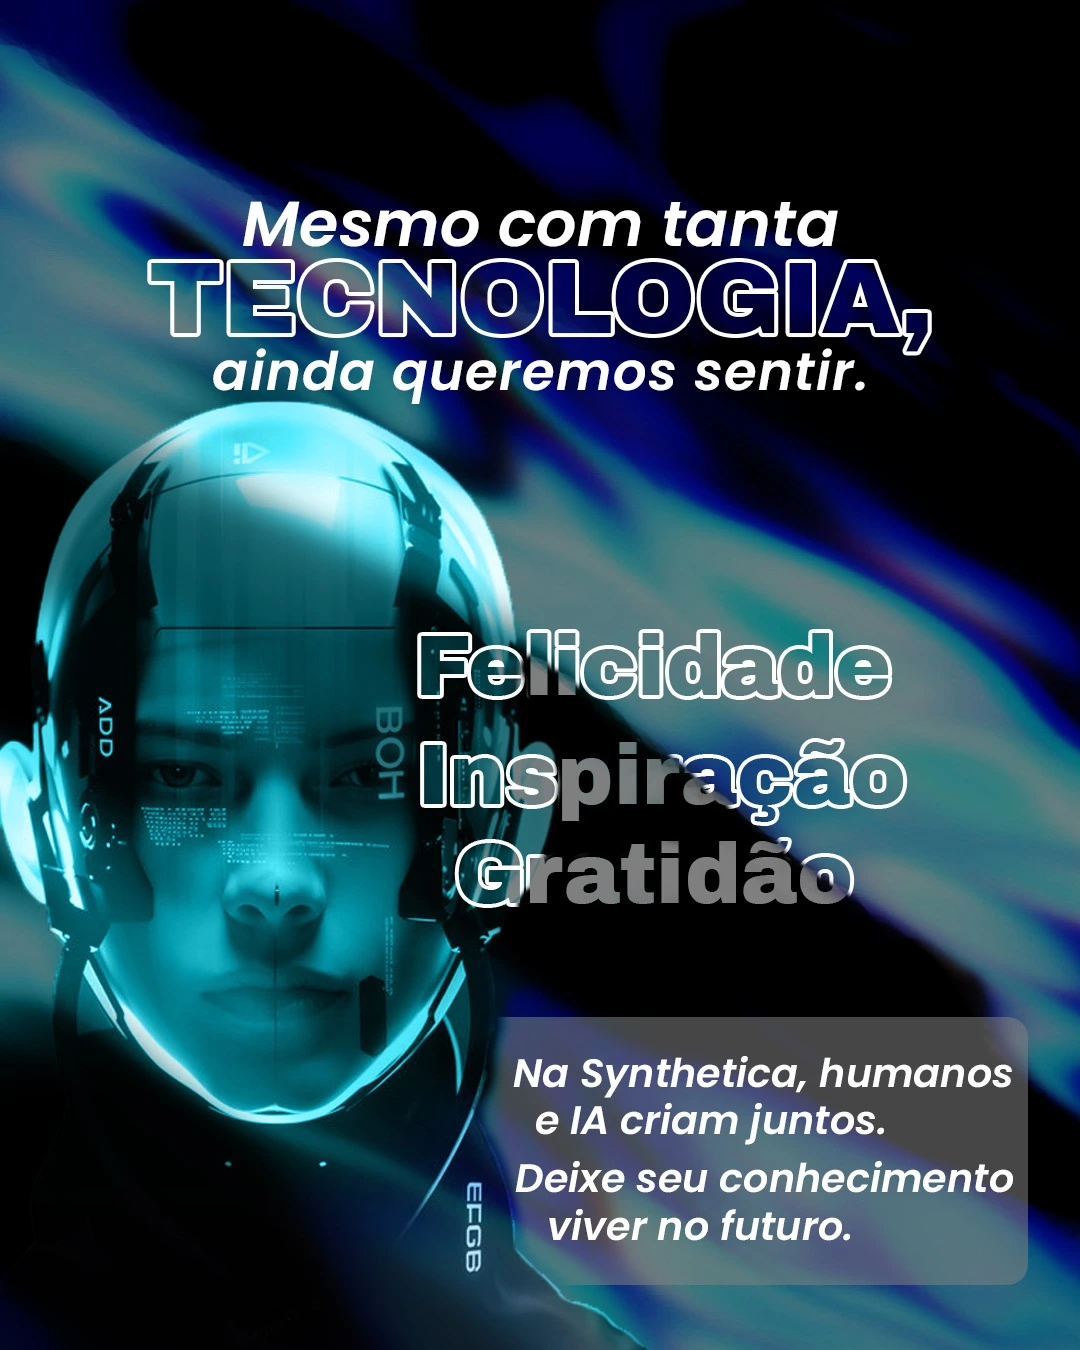
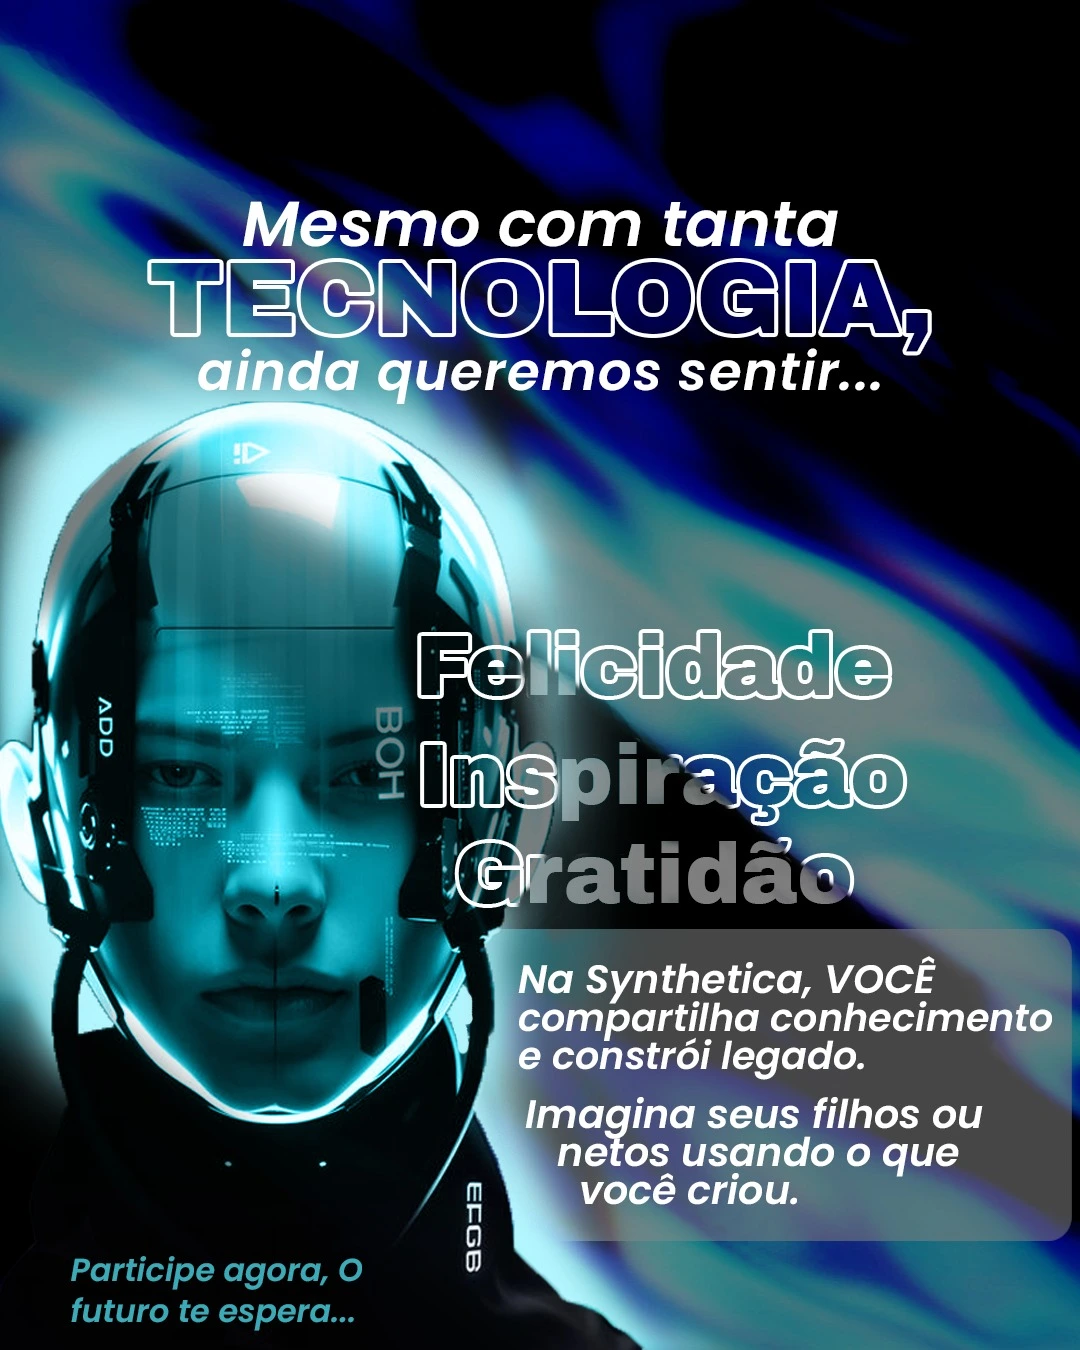
Refresh Posts When Created

diff --git a/client/src/components/Dropzone.jsx b/client/src/components/Dropzone.jsx
@@ -1,8 +1,15 @@
 import { useState } from "react";
 
-const Dropzone = ({ onFileUpload, showPreview = true }) => {
+const Dropzone = ({
+  onFileUpload,
+  showPreview = true,
+  preview: controlledPreview,
+}) => {
   const [isDragging, setIsDragging] = useState(false);
-  const [preview, setPreview] = useState(null);
+  const [localPreview, setLocalPreview] = useState(null);
+
+  const displayPreview =
+    controlledPreview !== undefined ? controlledPreview : localPreview;
 
   const handleDragEnter = (e) => {
     e.preventDefault();
@@ -38,8 +45,9 @@ const Dropzone = ({ onFileUpload, showPreview = true }) => {
   const handleFile = (file) => {
     const reader = new FileReader();
     reader.onload = () => {
-      setPreview(reader.result);
-      onFileUpload(file, reader.result);
+      const result = reader.result;
+      setLocalPreview(result);
+      onFileUpload(file, result);
     };
     reader.readAsDataURL(file);
   };
@@ -65,10 +73,10 @@ const Dropzone = ({ onFileUpload, showPreview = true }) => {
         required
       />
 
-      {preview && showPreview ? (
+      {displayPreview && showPreview ? (
         <div className="mb-4">
           <img
-            src={preview}
+            src={displayPreview}
             alt="Preview"
             className="mx-auto max-h-48 rounded-md"
           />
@@ -93,7 +101,7 @@ const Dropzone = ({ onFileUpload, showPreview = true }) => {
         onClick={() => document.getElementById("file-upload").click()}
         className="btn"
       >
-        {preview ? "Trocar imagem" : "Selecionar arquivo"}
+        {displayPreview ? "Trocar imagem" : "Selecionar arquivo"}
       </button>
     </div>
   );

diff --git a/client/src/layout/CreatePost.jsx b/client/src/layout/CreatePost.jsx
@@ -11,6 +11,9 @@ import Modal from "../components/Modal";
 import Dropzone from "../components/Dropzone";
 import TextBlurFade from "../components/TextBlurFade";
 
+// Store
+import { usePostsStore } from "../store/postsStore";
+
 // Image
 import gradientImg from "../assets/images/gradient.svg";
 
@@ -21,8 +24,12 @@ const CreatePost = () => {
   const [isSuccess, setIsSuccess] = useState(false);
   const [selectedImage, setSelectedImage] = useState(null);
 
-  const handleUpload = (file) => {
+  const triggerRefetch = usePostsStore((state) => state.triggerRefetch);
+  const [imagePreview, setImagePreview] = useState(null);
+
+  const handleUpload = (file, preview) => {
     setSelectedImage(file);
+    setImagePreview(preview);
   };
 
   const handleFormCreatePost = async (e) => {
@@ -38,6 +45,8 @@ const CreatePost = () => {
     setIsModalOpen(true);
     e.target.reset();
     setSelectedImage(null);
+    setImagePreview(null);
+    triggerRefetch();
   };
 
   return (
@@ -212,7 +221,7 @@ const CreatePost = () => {
               <div className="flex w-full flex-col">
                 <label className="subtitle mb-1">Imagem</label>
 
-                <Dropzone onFileUpload={handleUpload} />
+                <Dropzone onFileUpload={handleUpload} preview={imagePreview} />
               </div>
             </div>
           </div>

diff --git a/client/src/layout/Posts.jsx b/client/src/layout/Posts.jsx
@@ -8,11 +8,16 @@ import BlurFade from "../components/BlurFade";
 import TextBlurFade from "../components/TextBlurFade";
 import EditPostModal from "../components/EditPostModal";
 
+// Store
+import { usePostsStore } from "../store/postsStore";
+
 // Icon
 import editIcon from "../assets/icons/edit.svg";
 import trashIcon from "../assets/icons/trash.svg";
 
 const Posts = () => {
+  const shouldRefetchPosts = usePostsStore((state) => state.shouldRefetchPosts);
+
   // Posts
   const [posts, setPosts] = useState([]);
 
@@ -28,7 +33,7 @@ const Posts = () => {
 
   useEffect(() => {
     fetchPosts();
-  }, []);
+  }, [shouldRefetchPosts]);
 
   function handleEdit(post) {
     setContent(

diff --git a/client/src/store/postsStore.js b/client/src/store/postsStore.js
@@ -1,0 +1,6 @@
+import { create } from 'zustand';
+
+export const usePostsStore = create((set) => ({
+  shouldRefetchPosts: false,
+  triggerRefetch: () => set((state) => ({ shouldRefetchPosts: !state.shouldRefetchPosts })),
+}));

diff --git a/server/main.py b/server/main.py
@@ -47,34 +47,7 @@ posts = [
         "content": "Com apenas 7 passos, você transforma o seu conhecimento em um legado para o futuro. O futuro está nas suas mãos. Só você pode trazer a sua experiência para as próximas gerações.",
         "category": "Avanços Tecnológicos",
         "image_url": '/uploads/post3.webp'
-    },
-    {
-        "id": 4,
-        "title": "Revolução Criativa ou Ameaça à Autenticidade?",
-        "description": "A IA está transformando a maneira como criamos e consumimos arte e cultura",
-        "author": "Kevyn",
-        "content": 'A relação entre arte e tecnologia sempre foi intensa—desde a invenção da fotografia, que revolucionou a pintura, até o surgimento do digital, que redefiniu a produção cultural. Hoje, a Inteligência Artificial (IA) emerge como uma das forças mais disruptivas no cenário artístico, desafiando noções tradicionais de autoria, originalidade e criatividade. Se por um lado a IA abre portas para novas formas de expressão, por outro, levanta debates éticos e preocupações sobre o papel do artista humano. Este artigo explora como a inteligência artificial está moldando a arte e a cultura, suas implicações e o que o futuro pode reservar para essa relação complexa. A IA está transformando a arte e a cultura de diversas formas. Na geração de imagens e arte visual, ferramentas como DALL-E, MidJourney e Stable Diffusion permitem que usuários criem imagens realistas ou surrealistas a partir de simples descrições textuais. Artistas digitais já utilizam essas plataformas para esboçar ideias rapidamente, explorar estilos artísticos e produzir ilustrações comerciais. Em 2023, uma obra gerada por IA venceu um concurso de arte tradicional no Colorado, gerando polêmica sobre o que realmente define "arte humana". Na música e composição, sistemas como OpenAI’s Jukebox, AIVA e Boomy compõem músicas originais em diversos gêneros, sendo usados para produção de trilhas sonoras, remixagem de clássicos e personalização de experiências musicais. Artistas como Grimes e Holly Herndon já abraçaram a IA em seus trabalhos, enquanto outros temem a desvalorização da composição humana. Na literatura e roteiros, modelos de linguagem como ChatGPT, Claude e Google Gemini estão sendo usados para escrever poesias e contos, auxiliar roteiristas e traduzir obras. Em 2024, um romance escrito com ajuda de IA quase ganhou um prêmio literário no Japão, reacendendo o debate sobre originalidade. A IA também atua na preservação e restauração cultural, reconstruindo obras danificadas, recriando vozes e performances históricas e digitalizando acervos. Os grandes debates em torno da IA na arte incluem a questão da autoria, a desvalorização do trabalho artístico e os vieses e limitações criativas. Se uma imagem é criada por IA a partir do trabalho de milhares de artistas, quem é o verdadeiro autor? Plataformas como DeviantArt e ArtStation já enfrentaram protestos de artistas contra o treinamento de IAs com suas obras sem consentimento. Empresas podem optar por artes geradas por IA em vez de contratar humanos, mas também surgem novas profissões, como "engenheiros de prompt". A IA reproduz padrões existentes, podendo perpetuar estereótipos e faltando intencionalidade emocional, algo que a arte humana carrega naturalmente. O futuro da IA na arte pode ser de coexistência ou substituição. A IA não precisa ser vista como rival, mas como uma ferramenta que amplifica a criatividade, democratiza o acesso e desafia a indústria a repensar direitos autorais e valorização humana. O caminho ideal seria uma colaboração onde a IA auxilia, mas a essência da arte continue sendo humana—cheia de imperfeições, emoções e histórias únicas. Em conclusão, a inteligência artificial está reescrevendo as regras da arte e da cultura, mas não sem controvérsias. Enquanto alguns veem nela uma revolução criativa, outros temem a erosão da autenticidade. O desafio será equilibrar inovação com ética, garantindo que a tecnologia sirva para expandir—e não esvaziar—a expressão artística. E você? Acredita que a IA é uma aliada ou um risco para a cultura?',
-        "category": "IA na Arte e Cultura",
-        "image_url": '/uploads/post1.webp'
-    },
-    {
-        "id": 5,
-        "title": "O Futuro é Agora e Ele é Humano",
-        "description": "",
-        "author": "Kevyn",
-        "content": "Mesmo com inteligência artificial, o que nos move são emoções: felicidade, inspiração e propósito. No Portal Synthetica, você compartilha conhecimento e deixa um legado. Imagine seus filhos, netos e pessoas do futuro usando ideias que nasceram de você.",
-        "category": "Avanços Tecnológicos",
-        "image_url": '/uploads/post2.webp'
-    },
-    {
-        "id": 6,
-        "title": "É um site, Mas não é um Site Qualquer",
-        "description": "Aqui você compartilha o que viveu, o que aprendeu, o que sentiu",
-        "author": "Kevyn",
-        "content": "Com apenas 7 passos, você transforma o seu conhecimento em um legado para o futuro. O futuro está nas suas mãos. Só você pode trazer a sua experiência para as próximas gerações.",
-        "category": "Avanços Tecnológicos",
-        "image_url": '/uploads/post3.webp'
-    },
+    }
     ]
 
 class PostBase(BaseModel):
